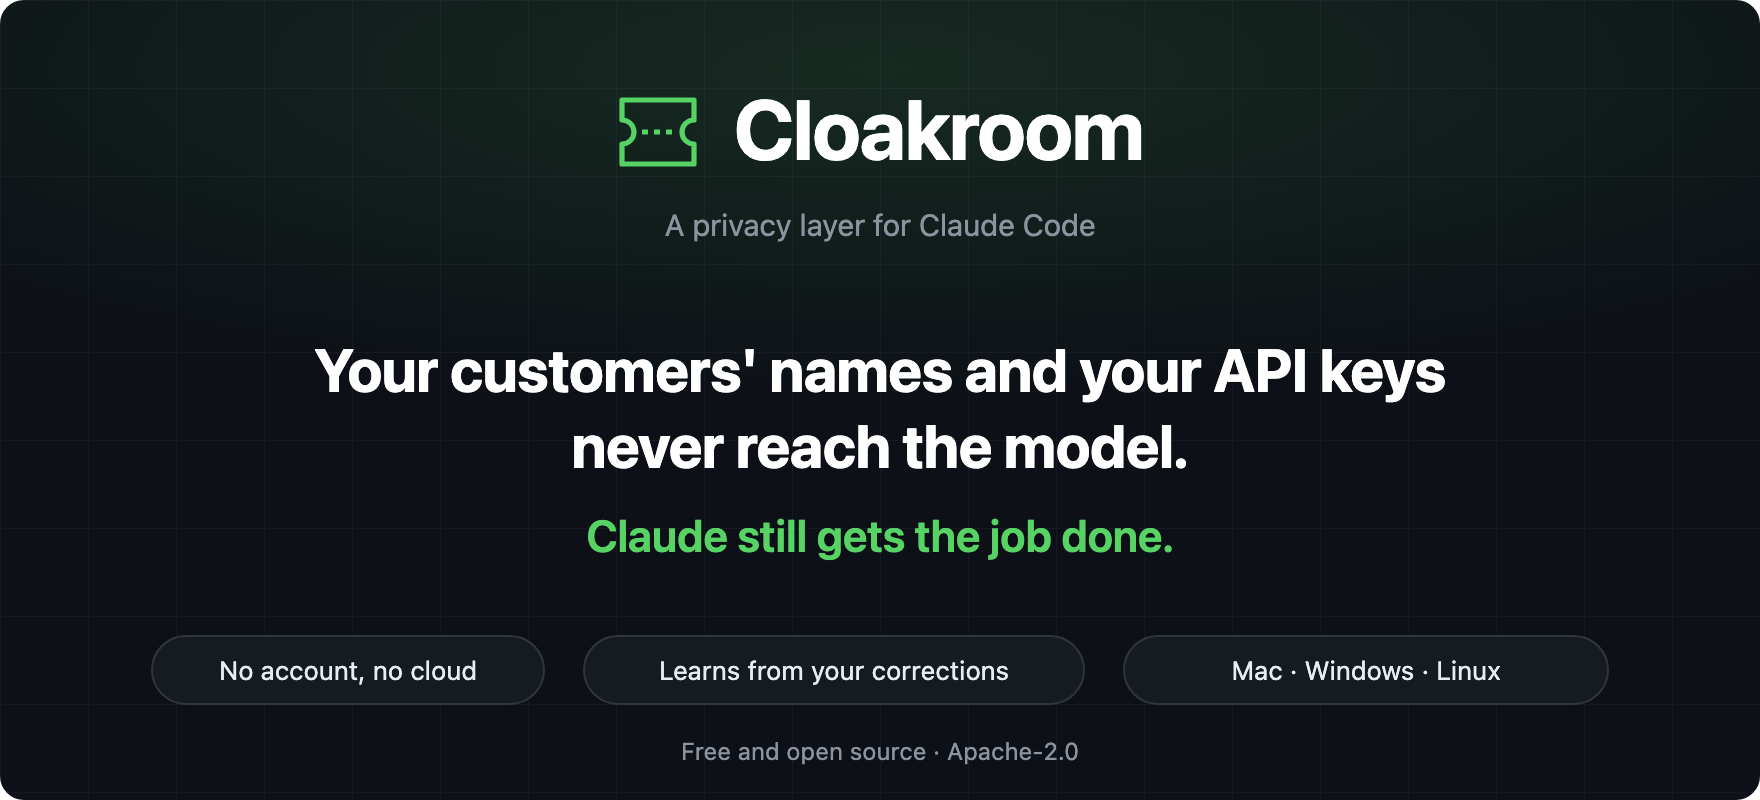
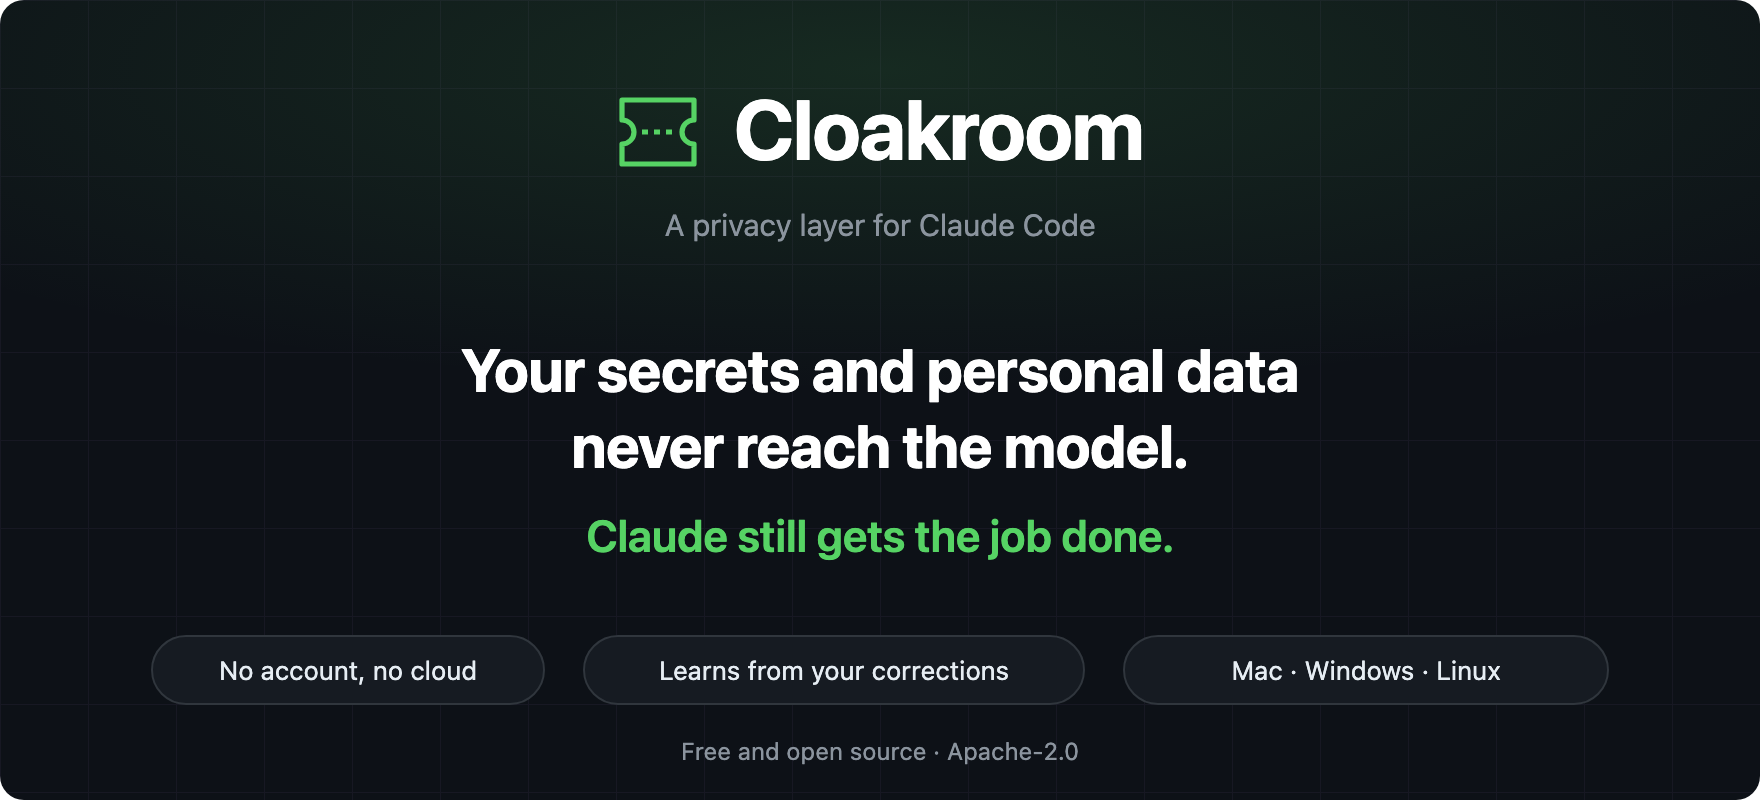
Tagline: secrets and personal data

Changed region(s): [[0.1562, 0.4375, 0.8438, 0.5]]

diff --git a/README.md b/README.md
@@ -21,7 +21,7 @@
 
 </div>
 
-**Your customers' names and your API keys never reach the model. Claude still gets the job done.**
+**Your secrets and personal data never reach the model. Claude still gets the job done.**
 
 Runs on your machine. Installs itself. Mac, Windows and Linux. Free and open source.
 
